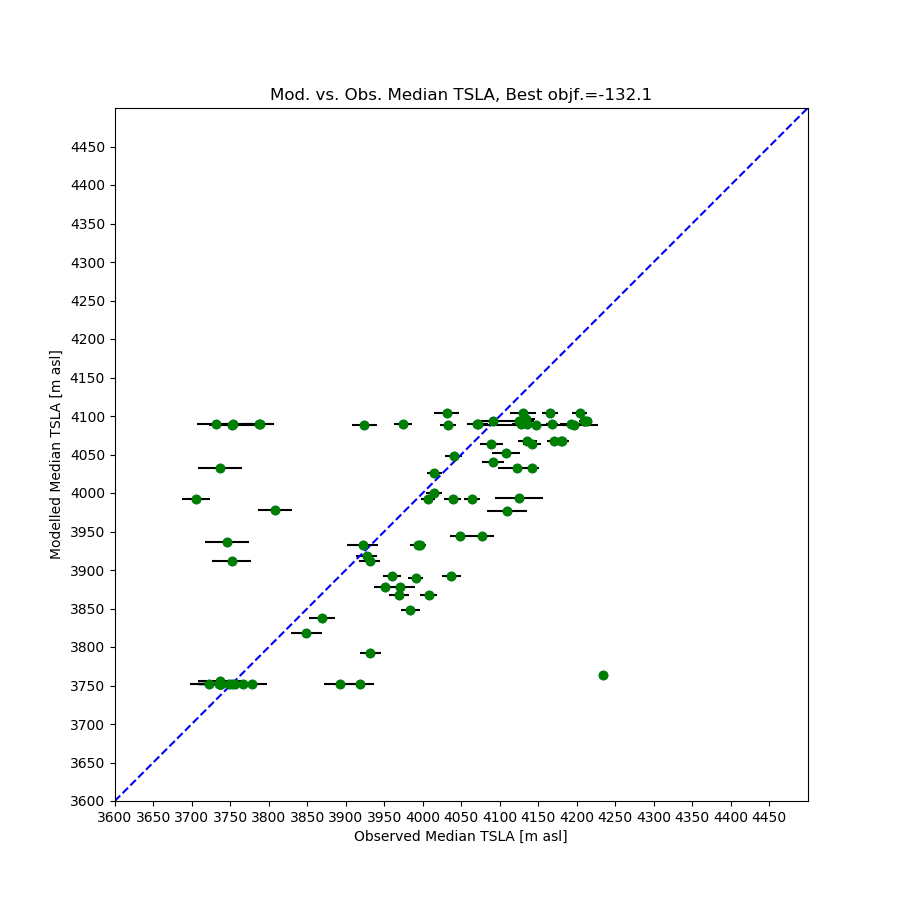
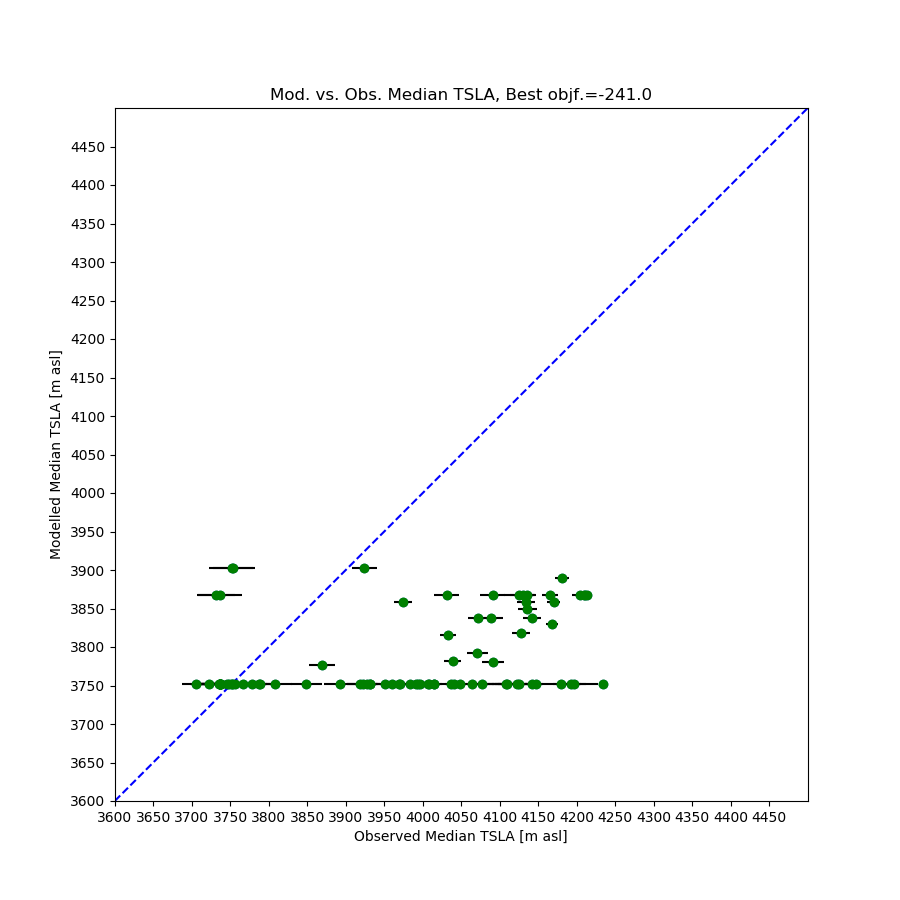
Added different TSLA calc. methods

diff --git a/spotpy_full.py b/spotpy_full.py
@@ -36,6 +36,7 @@ obs.set_index('LS_DATE', inplace=True)
 param_list = pd.read_csv('/data/scratch/richteny/thesis/cosipy_test_space/param_files/2D_Wohlfahrt/cosipy_par_smpl.csv')
 print(param_list.head(3))
 fromlist=True
+#tsl_normalize=True
 
 class spot_setup:
     # defining all parameters and the distribution
@@ -110,7 +111,11 @@ class spot_setup:
         # SPOTPY expects to get one or multiple values back,
         # that define the performance of the model run
         if not self.obj_func:
-            eval = np.delete(evaluation.SC_median.values, np.argwhere(np.isnan(simulation)))
+            if tsl_normalize:
+                print("Using normalized values.")
+                eval = np.delete(evaluation.TSL_normalized.values, np.argwhere(np.isnan(simulation)))
+            else:
+                eval = np.delete(evaluation.SC_median.values, np.argwhere(np.isnan(simulation)))
             sim = simulation[~np.isnan(simulation)]
             like = -rmse(eval, sim) #set minus before rmse if trying to maximize, depends on algorithm
             like2 = -mae(eval,sim)
@@ -197,7 +202,7 @@ def psample(obs, rep=10, count=None, dbname='cosipy_par_smpl', dbformat="csv", i
     ax.legend()
     if savefig:
         plt.savefig(dbname + '_par_uncertain_plot.png')
-    
+'''    
     fig4 = plt.figure(figsize=(9, 9))
     ax = plt.subplot(1, 1, 1)
     ax.scatter(obs.SC_median, best_simulation)
@@ -216,6 +221,6 @@ def psample(obs, rep=10, count=None, dbname='cosipy_par_smpl', dbformat="csv", i
     return {'best_param': best_param, 'best_index': bestindex, 'best_model_run': best_model_run, 'best_objf': bestobjf,
             'param': spot_setup.param,'opt_iter': spot_setup.par_iter,
             'sampling_plot': fig1} #'best_simulation': best_simulation, 'best_run_plot': fig2, 'par_uncertain_plot': fig3}
-
+'''
 #Plotting routine and most parts of script created by Phillip Schuster of HU Berlin
 #Thank you Phillip!

diff --git a/run_spotpy_full.py b/run_spotpy_full.py
@@ -10,5 +10,5 @@ import matplotlib.pyplot as plt
 from COSIPY import main 
 
 count=0
-best_summary = psample(obs=obs,count=count, rep=200)
+best_summary = psample(obs=obs,count=count, rep=2)
 
